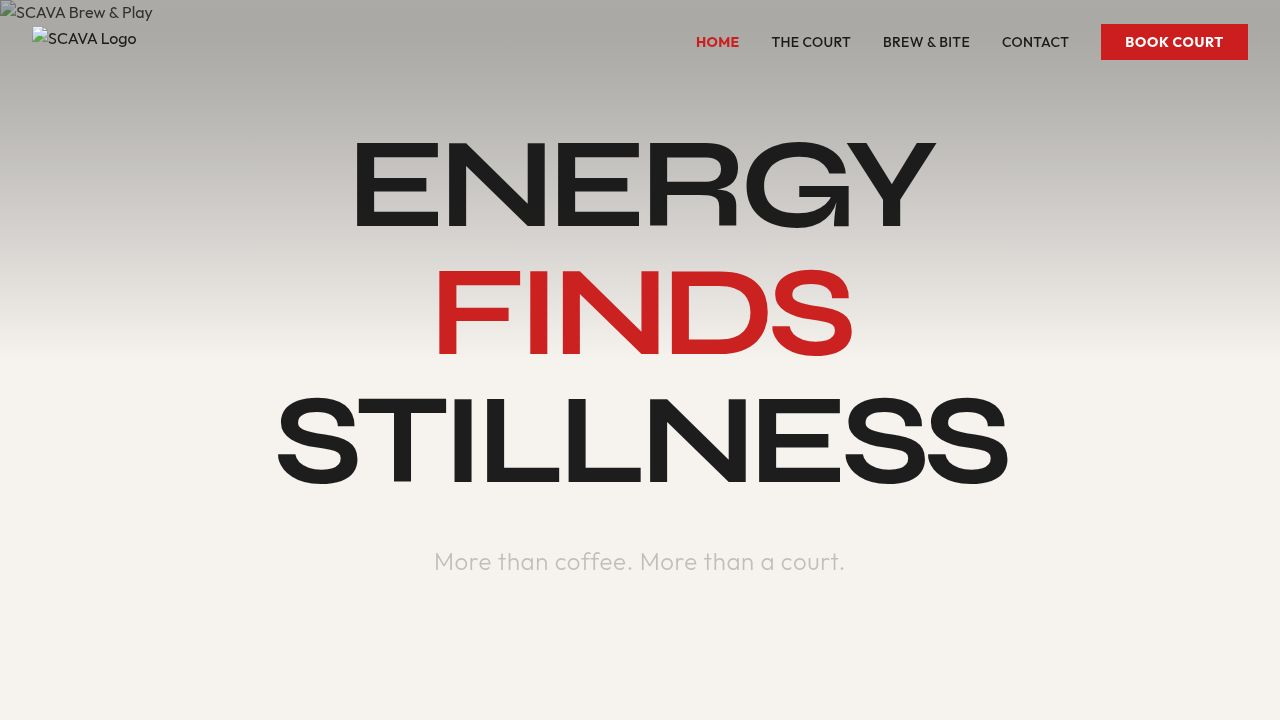
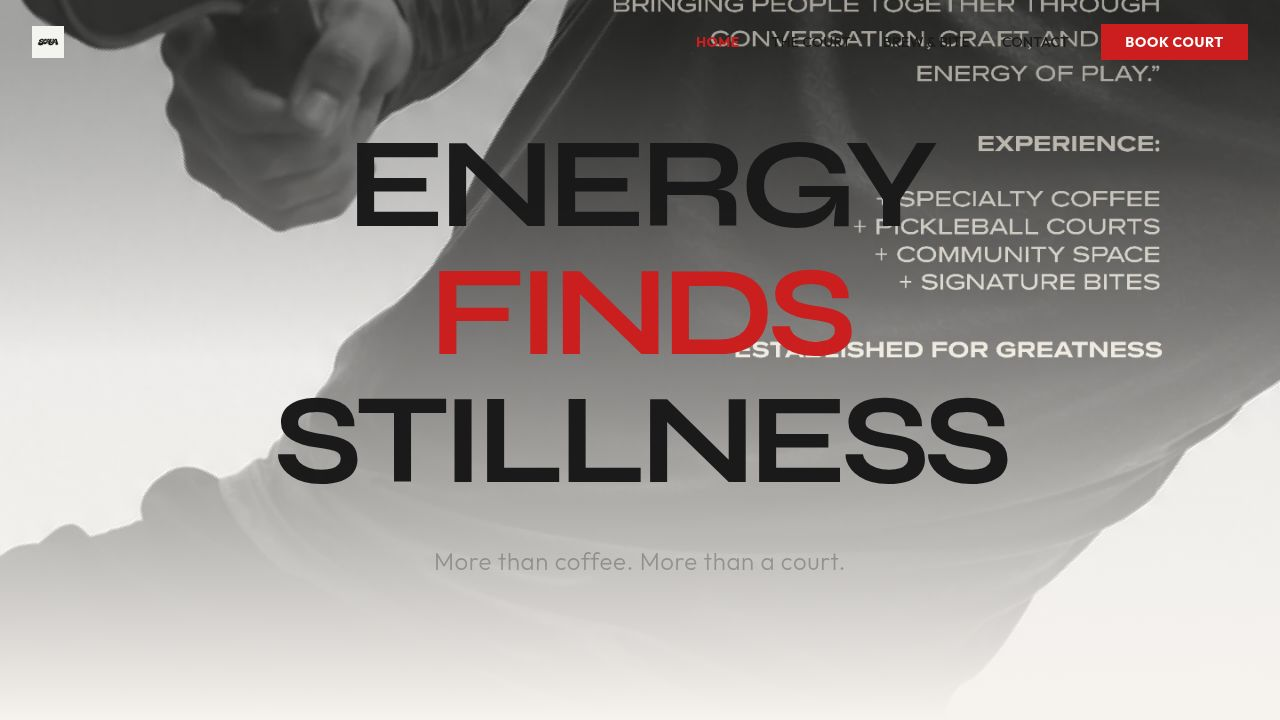
Add email notifications for bookings and contact inquiries
Integrates Resend for sending email notifications on new court bookings and contact form submissions by adding a new email utility module and updating relevant route handlers.

Replit-Commit-Author: Agent
Replit-Commit-Session-Id: 16df8333-f311-48b2-ac8d-b262f813c4c0
Replit-Commit-Checkpoint-Type: full_checkpoint
Replit-Commit-Event-Id: 72c5ca3f-7798-43c7-aed9-89d282023c7d
Replit-Commit-Screenshot-Url: https://storage.googleapis.com/screenshot-production-us-central1/78599db7-aa2c-470d-8495-461b180d9d24/16df8333-f311-48b2-ac8d-b262f813c4c0/ZFawlub
Replit-Helium-Checkpoint-Created: true

diff --git a/artifacts/api-server/src/lib/email.ts b/artifacts/api-server/src/lib/email.ts
@@ -1,0 +1,142 @@
+import { Resend } from "resend";
+import { logger } from "./logger";
+
+const NOTIFY_EMAIL = "[email redacted]";
+const FROM_EMAIL = "SCAVA <[email redacted]>";
+
+function getResend() {
+  const key = process.env.RESEND_API_KEY;
+  if (!key) {
+    logger.warn("RESEND_API_KEY not set — email notifications disabled");
+    return null;
+  }
+  return new Resend(key);
+}
+
+export async function sendBookingNotification(booking: {
+  name: string;
+  email: string;
+  phone: string;
+  date: string;
+  timeSlot: string;
+  players: number;
+  notes?: string | null;
+}) {
+  const resend = getResend();
+  if (!resend) return;
+
+  try {
+    await resend.emails.send({
+      from: FROM_EMAIL,
+      to: NOTIFY_EMAIL,
+      subject: `New Court Booking — ${booking.name} on ${booking.date}`,
+      html: `
+        <div style="font-family: Arial, sans-serif; max-width: 600px; margin: 0 auto; padding: 24px; background: #f5f2ee;">
+          <div style="background: #1a1a1a; padding: 24px; margin-bottom: 24px;">
+            <h1 style="color: #f5f2ee; margin: 0; font-size: 24px; letter-spacing: 2px;">SCAVA</h1>
+            <p style="color: #cc1f1f; margin: 4px 0 0; font-size: 12px; letter-spacing: 3px; text-transform: uppercase;">New Court Booking</p>
+          </div>
+          <div style="background: #fff; padding: 24px; border-left: 4px solid #cc1f1f;">
+            <table style="width: 100%; border-collapse: collapse;">
+              <tr>
+                <td style="padding: 10px 0; border-bottom: 1px solid #eee; color: #666; font-size: 12px; text-transform: uppercase; letter-spacing: 1px; width: 40%;">Name</td>
+                <td style="padding: 10px 0; border-bottom: 1px solid #eee; font-weight: bold;">${booking.name}</td>
+              </tr>
+              <tr>
+                <td style="padding: 10px 0; border-bottom: 1px solid #eee; color: #666; font-size: 12px; text-transform: uppercase; letter-spacing: 1px;">Phone</td>
+                <td style="padding: 10px 0; border-bottom: 1px solid #eee; font-weight: bold;">${booking.phone}</td>
+              </tr>
+              <tr>
+                <td style="padding: 10px 0; border-bottom: 1px solid #eee; color: #666; font-size: 12px; text-transform: uppercase; letter-spacing: 1px;">Email</td>
+                <td style="padding: 10px 0; border-bottom: 1px solid #eee;">${booking.email}</td>
+              </tr>
+              <tr>
+                <td style="padding: 10px 0; border-bottom: 1px solid #eee; color: #666; font-size: 12px; text-transform: uppercase; letter-spacing: 1px;">Date</td>
+                <td style="padding: 10px 0; border-bottom: 1px solid #eee; font-weight: bold; color: #cc1f1f;">${booking.date}</td>
+              </tr>
+              <tr>
+                <td style="padding: 10px 0; border-bottom: 1px solid #eee; color: #666; font-size: 12px; text-transform: uppercase; letter-spacing: 1px;">Time Slot</td>
+                <td style="padding: 10px 0; border-bottom: 1px solid #eee; font-weight: bold; color: #cc1f1f;">${booking.timeSlot}</td>
+              </tr>
+              <tr>
+                <td style="padding: 10px 0; border-bottom: 1px solid #eee; color: #666; font-size: 12px; text-transform: uppercase; letter-spacing: 1px;">Players</td>
+                <td style="padding: 10px 0; border-bottom: 1px solid #eee;">${booking.players}</td>
+              </tr>
+              ${booking.notes ? `
+              <tr>
+                <td style="padding: 10px 0; color: #666; font-size: 12px; text-transform: uppercase; letter-spacing: 1px;">Notes</td>
+                <td style="padding: 10px 0;">${booking.notes}</td>
+              </tr>` : ""}
+            </table>
+          </div>
+          <p style="color: #999; font-size: 11px; margin-top: 24px; text-align: center; letter-spacing: 1px;">SCAVA // BREW & PLAY // EST 2026 // NELLORE</p>
+        </div>
+      `,
+    });
+    logger.info("Booking notification email sent");
+  } catch (err) {
+    logger.error({ err }, "Failed to send booking notification email");
+  }
+}
+
+export async function sendContactNotification(inquiry: {
+  name: string;
+  email: string;
+  phone: string;
+  inquiryType: string;
+  message: string;
+}) {
+  const resend = getResend();
+  if (!resend) return;
+
+  const typeLabels: Record<string, string> = {
+    private: "Private Event",
+    corporate: "Corporate Booking",
+    tournament: "Tournament Hosting",
+    general: "General Question",
+  };
+
+  try {
+    await resend.emails.send({
+      from: FROM_EMAIL,
+      to: NOTIFY_EMAIL,
+      subject: `New Inquiry — ${typeLabels[inquiry.inquiryType] ?? inquiry.inquiryType} from ${inquiry.name}`,
+      html: `
+        <div style="font-family: Arial, sans-serif; max-width: 600px; margin: 0 auto; padding: 24px; background: #f5f2ee;">
+          <div style="background: #1a1a1a; padding: 24px; margin-bottom: 24px;">
+            <h1 style="color: #f5f2ee; margin: 0; font-size: 24px; letter-spacing: 2px;">SCAVA</h1>
+            <p style="color: #cc1f1f; margin: 4px 0 0; font-size: 12px; letter-spacing: 3px; text-transform: uppercase;">New Contact Inquiry</p>
+          </div>
+          <div style="background: #fff; padding: 24px; border-left: 4px solid #cc1f1f;">
+            <table style="width: 100%; border-collapse: collapse;">
+              <tr>
+                <td style="padding: 10px 0; border-bottom: 1px solid #eee; color: #666; font-size: 12px; text-transform: uppercase; letter-spacing: 1px; width: 40%;">Name</td>
+                <td style="padding: 10px 0; border-bottom: 1px solid #eee; font-weight: bold;">${inquiry.name}</td>
+              </tr>
+              <tr>
+                <td style="padding: 10px 0; border-bottom: 1px solid #eee; color: #666; font-size: 12px; text-transform: uppercase; letter-spacing: 1px;">Phone</td>
+                <td style="padding: 10px 0; border-bottom: 1px solid #eee; font-weight: bold;">${inquiry.phone}</td>
+              </tr>
+              <tr>
+                <td style="padding: 10px 0; border-bottom: 1px solid #eee; color: #666; font-size: 12px; text-transform: uppercase; letter-spacing: 1px;">Email</td>
+                <td style="padding: 10px 0; border-bottom: 1px solid #eee;">${inquiry.email}</td>
+              </tr>
+              <tr>
+                <td style="padding: 10px 0; border-bottom: 1px solid #eee; color: #666; font-size: 12px; text-transform: uppercase; letter-spacing: 1px;">Inquiry Type</td>
+                <td style="padding: 10px 0; border-bottom: 1px solid #eee; font-weight: bold; color: #cc1f1f;">${typeLabels[inquiry.inquiryType] ?? inquiry.inquiryType}</td>
+              </tr>
+              <tr>
+                <td style="padding: 10px 0; color: #666; font-size: 12px; text-transform: uppercase; letter-spacing: 1px;">Message</td>
+                <td style="padding: 10px 0;">${inquiry.message}</td>
+              </tr>
+            </table>
+          </div>
+          <p style="color: #999; font-size: 11px; margin-top: 24px; text-align: center; letter-spacing: 1px;">SCAVA // BREW & PLAY // EST 2026 // NELLORE</p>
+        </div>
+      `,
+    });
+    logger.info("Contact notification email sent");
+  } catch (err) {
+    logger.error({ err }, "Failed to send contact notification email");
+  }
+}

diff --git a/artifacts/api-server/src/routes/bookings.ts b/artifacts/api-server/src/routes/bookings.ts
@@ -7,6 +7,7 @@ import {
   GetBookingParams,
   CancelBookingParams,
 } from "@workspace/api-zod";
+import { sendBookingNotification } from "../lib/email";
 
 const router = Router();
 
@@ -104,6 +105,8 @@ router.post("/bookings", async (req, res) => {
     .insert(bookingsTable)
     .values({ ...data, status: "confirmed" })
     .returning();
+
+  sendBookingNotification(newBooking).catch(() => {});
 
   res.status(201).json({ ...newBooking, createdAt: newBooking.createdAt.toISOString() });
 });

diff --git a/artifacts/api-server/src/routes/contact.ts b/artifacts/api-server/src/routes/contact.ts
@@ -1,6 +1,7 @@
 import { Router } from "express";
 import { db, contactInquiriesTable } from "@workspace/db";
 import { SubmitContactBody } from "@workspace/api-zod";
+import { sendContactNotification } from "../lib/email";
 
 const router = Router();
 
@@ -16,6 +17,8 @@ router.post("/contact", async (req, res) => {
     .insert(contactInquiriesTable)
     .values(data)
     .returning();
+
+  sendContactNotification(inquiry).catch(() => {});
 
   res.status(201).json({ ...inquiry, createdAt: inquiry.createdAt.toISOString() });
 });